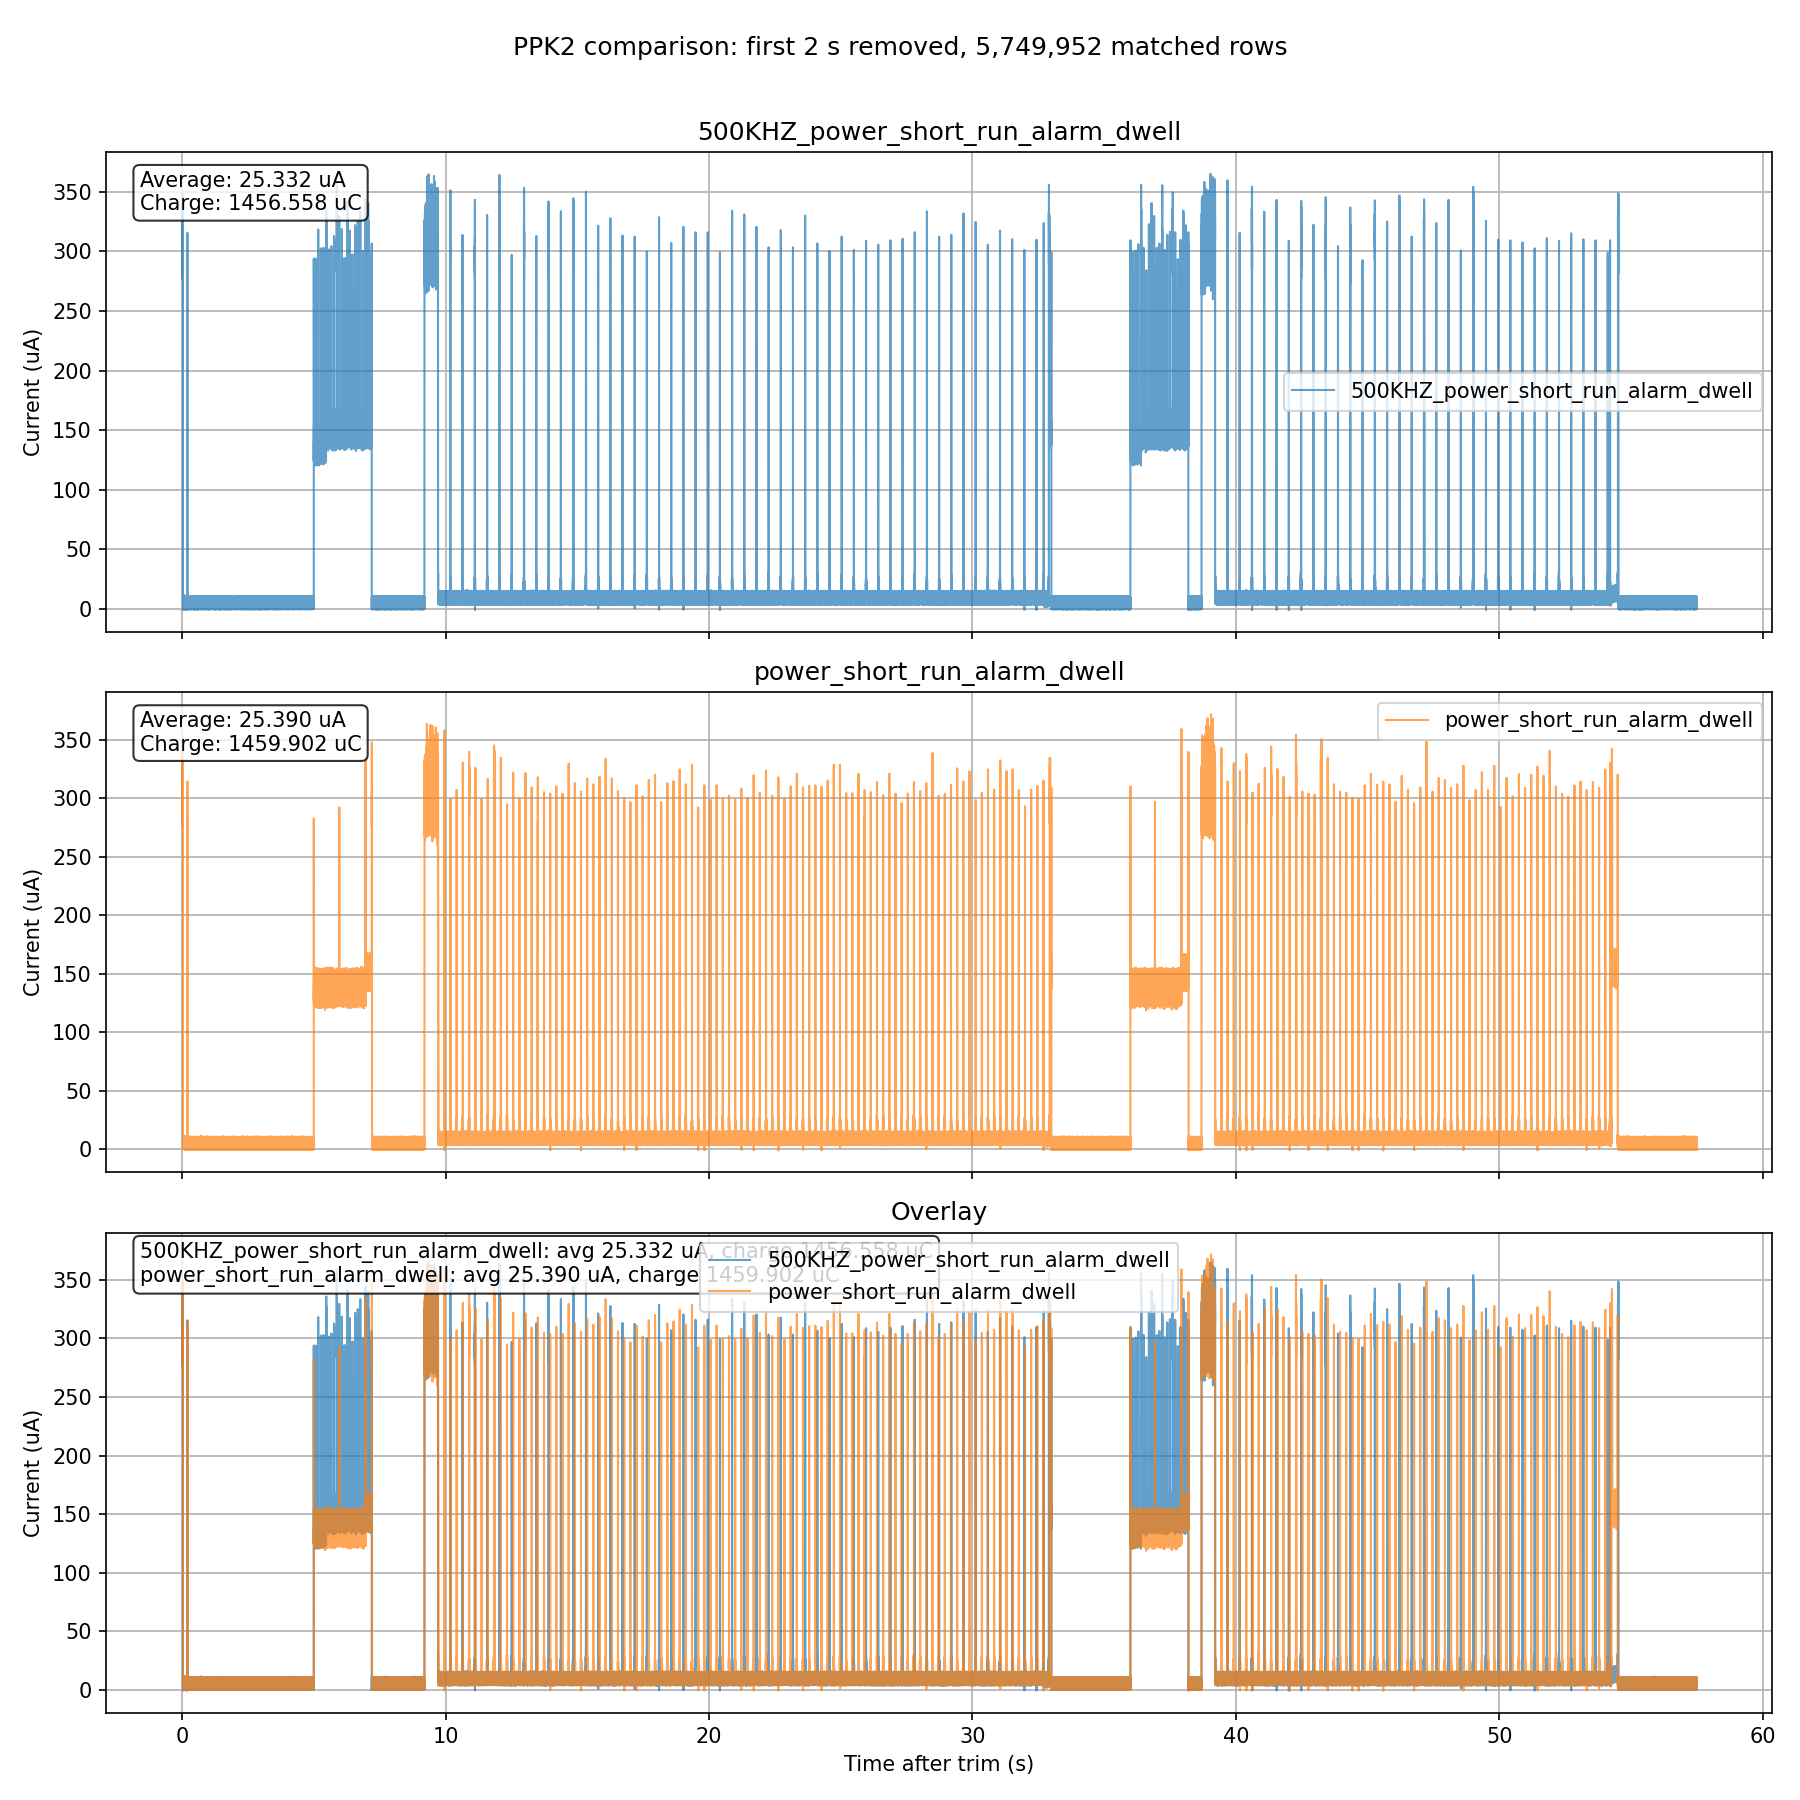
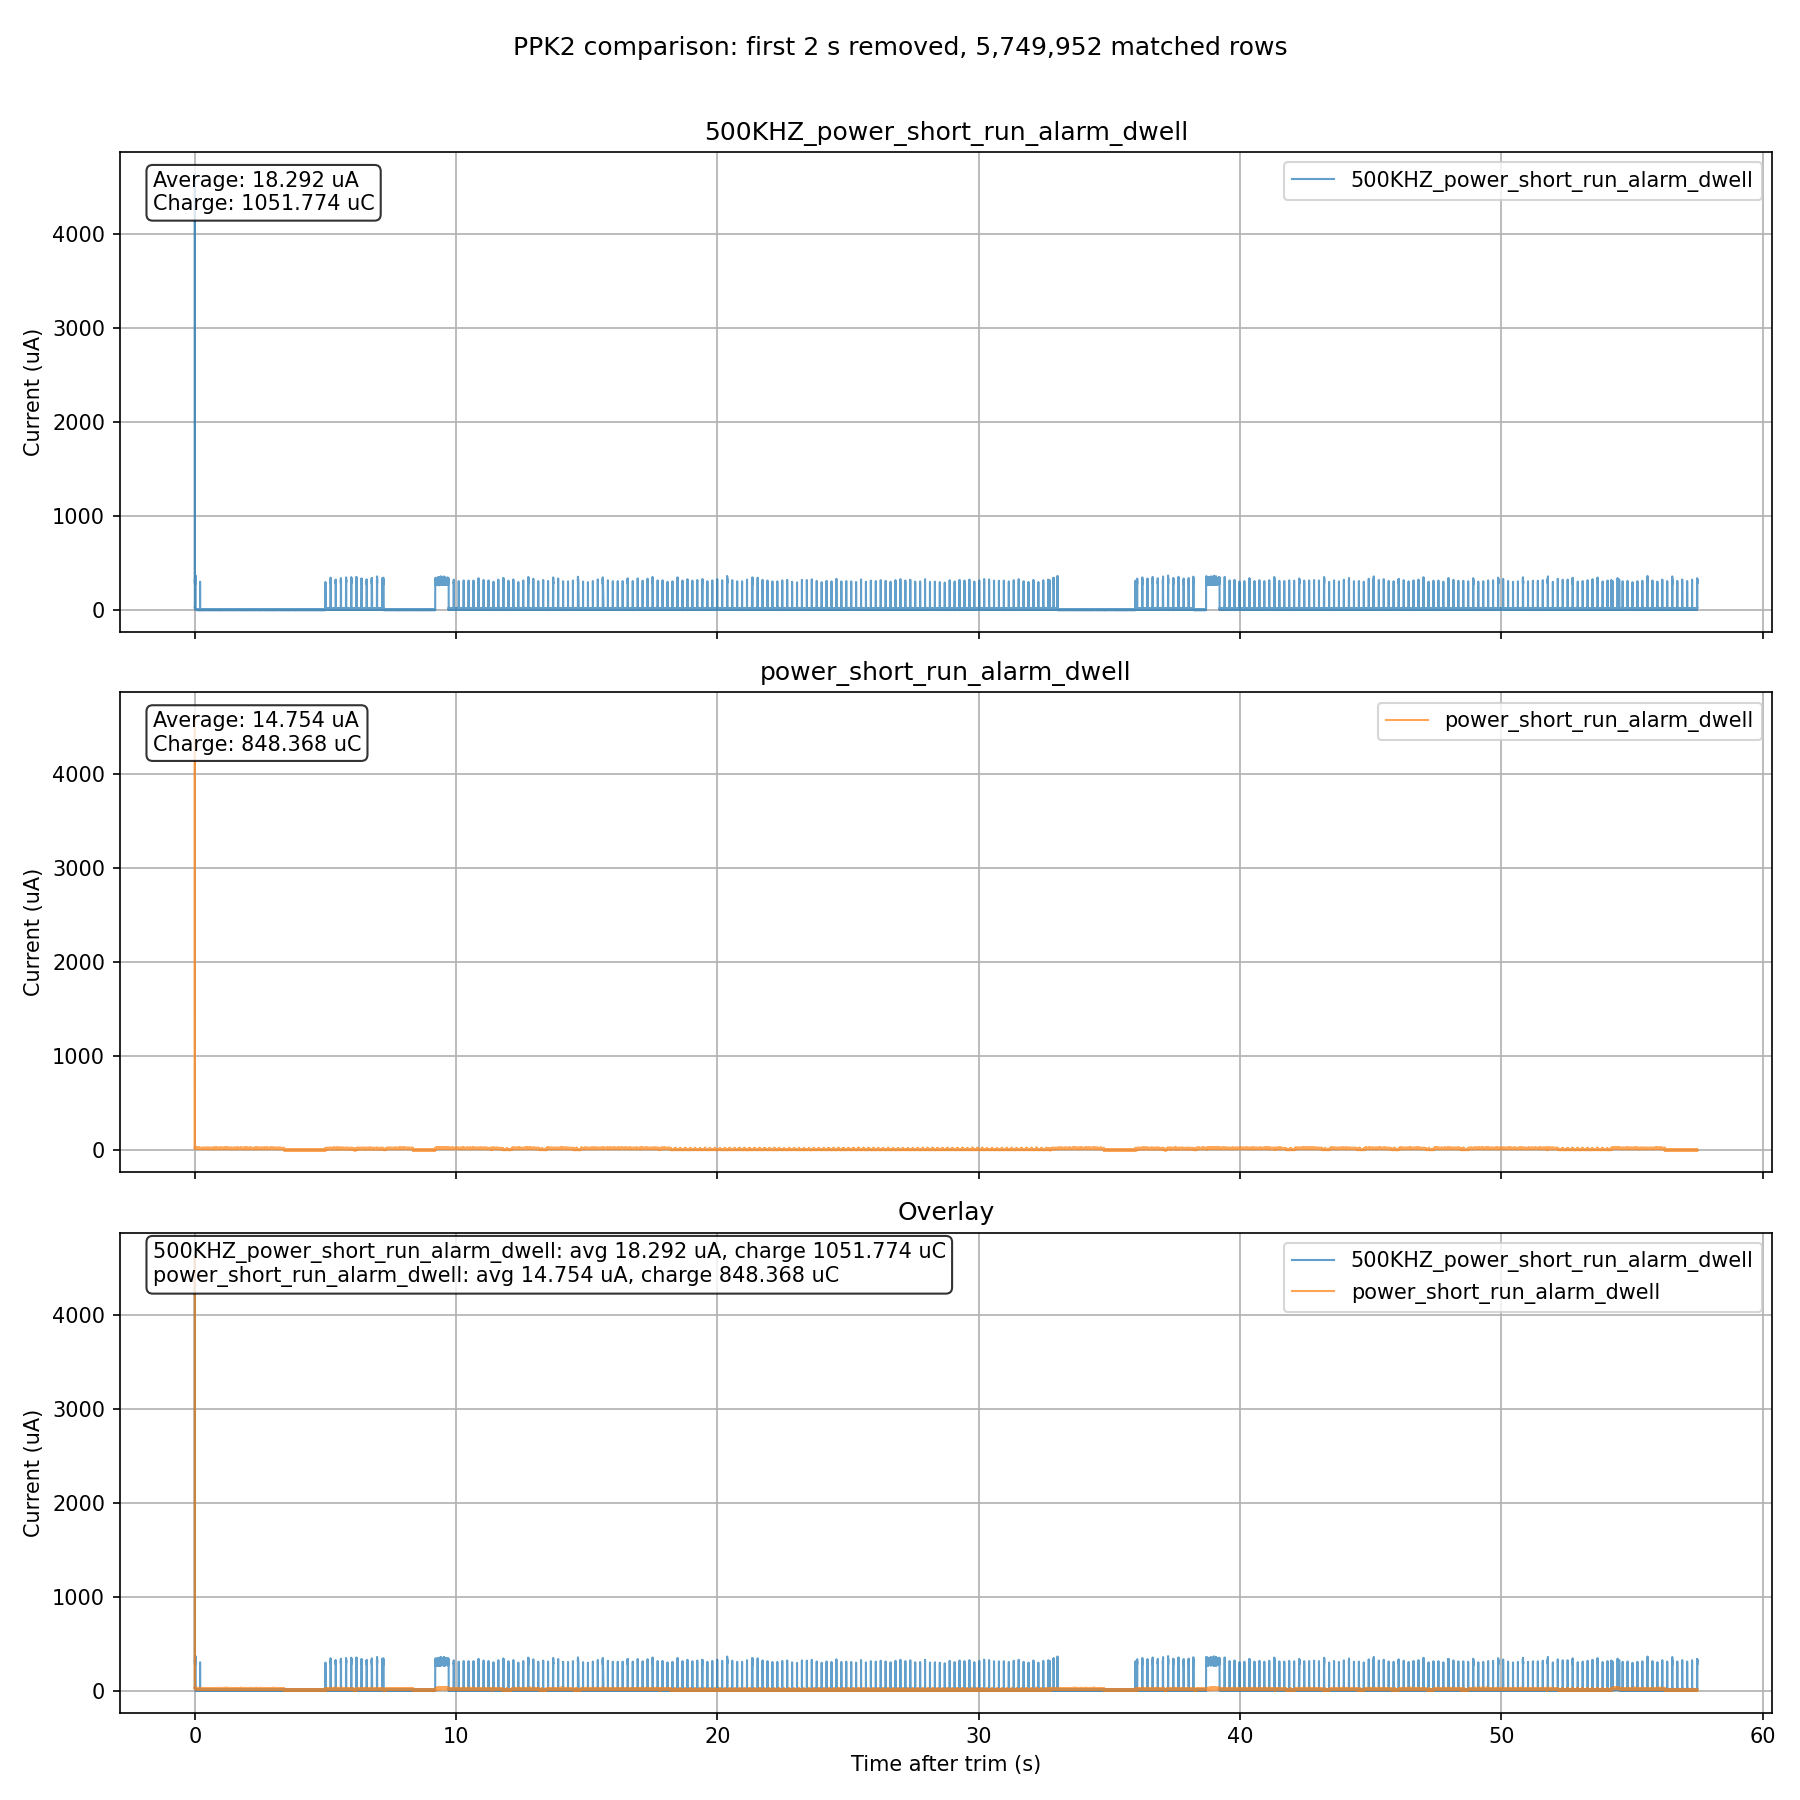
Power Testing

Changed region(s): [[0.0311, 0.3733, 0.9644, 0.9956], [0.0311, 0.0622, 0.9644, 0.3422]]

diff --git a/project1/src/superloop.c b/project1/src/superloop.c
@@ -59,8 +59,7 @@
 #define CLEAR_DELAY_MS 3000
 #define COUNT_DELAY_MS 1000
 #define FAST_BLINK_MS 250
-#define HARDWARE_OUTPUTS_ENABLED 0
-
+#define HARDWARE_OUTPUTS_ENABLED 1
 static const core_clock_freq_e default_core_clock = DEFAULT_CORE_CLOCK;
 static char err_msg[128];
 
@@ -194,6 +193,7 @@ void superloop_loop(void)
 
     if (buttons != prev_buttons)
     {
+        timer2_reset_phase();
         prev_buttons = buttons;
         counter = 0;
         start_time = now;

diff --git a/test_harness/hil_rig/src/gpio.rs b/test_harness/hil_rig/src/gpio.rs
@@ -15,7 +15,7 @@ const PUSHBUTTON_3_OUTPUT: u8 = 27;
 const RESET_OUTPUT: u8 = 6; //This sends the reset signal to the physical twin
 const RESET_PULSE_MS: u64 = 3500;
 const CLEAR_PULSE_MS: u64 = 3500;
-const INCREMENT_PULSE_MS: u64 = 425;
+const INCREMENT_PULSE_MS: u64 = 210;
 const PULSE_MS: u64 = 200;
 
 pub(crate) struct ControlGpio {

diff --git a/project1/src/timer.c b/project1/src/timer.c
@@ -71,7 +71,7 @@ void timer2_init(void)
         clock_skew = 1;
         break;
     case CLOCK_500KHZ:
-        clock_skew = 0.963182;
+        clock_skew = 0.999135049376;
         break;
     default:
         clock_skew = 1;
